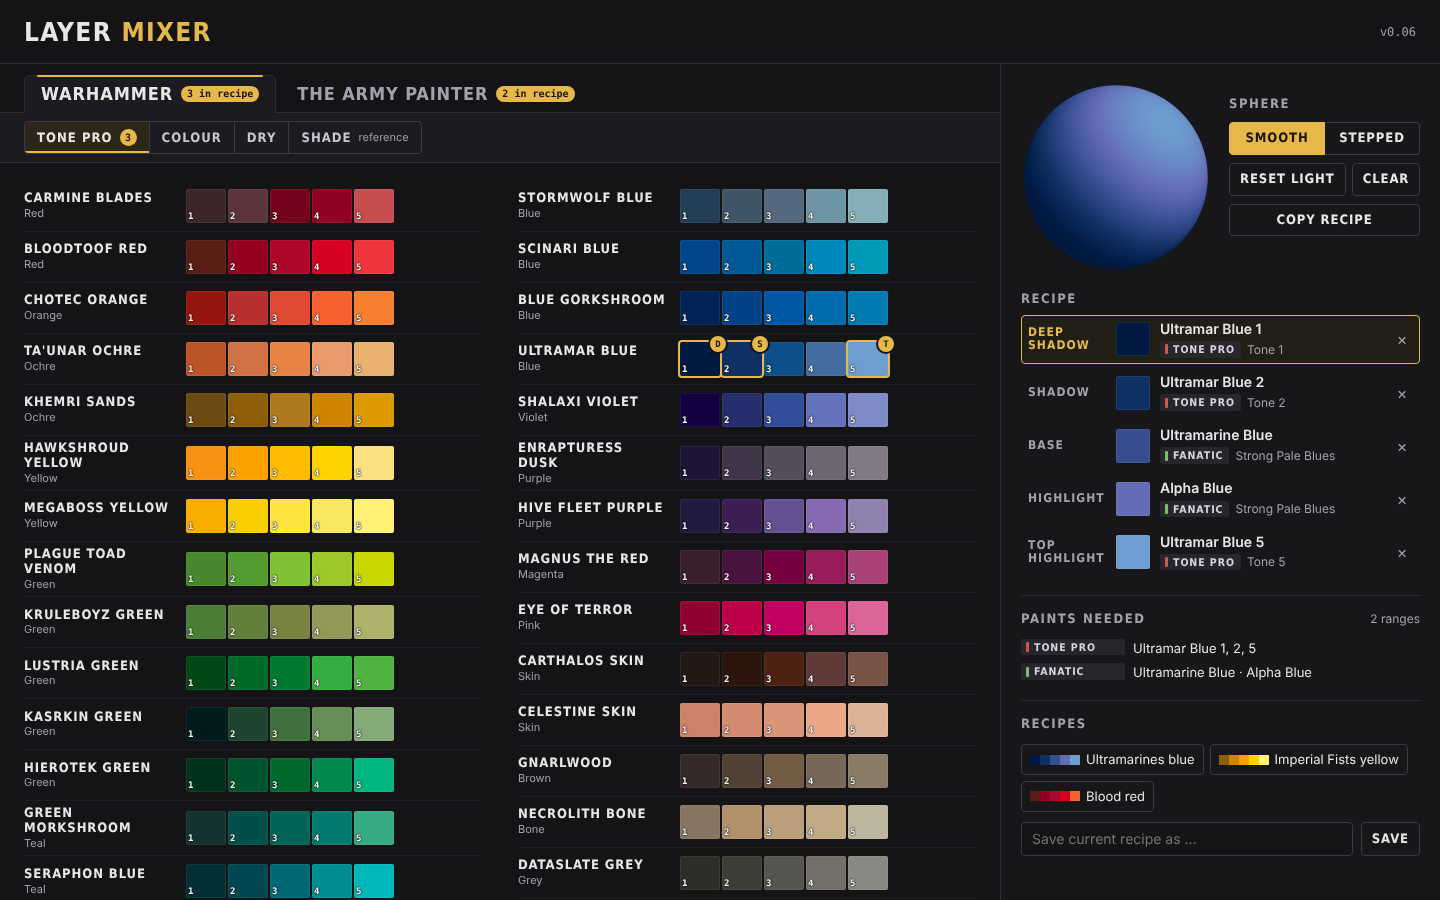
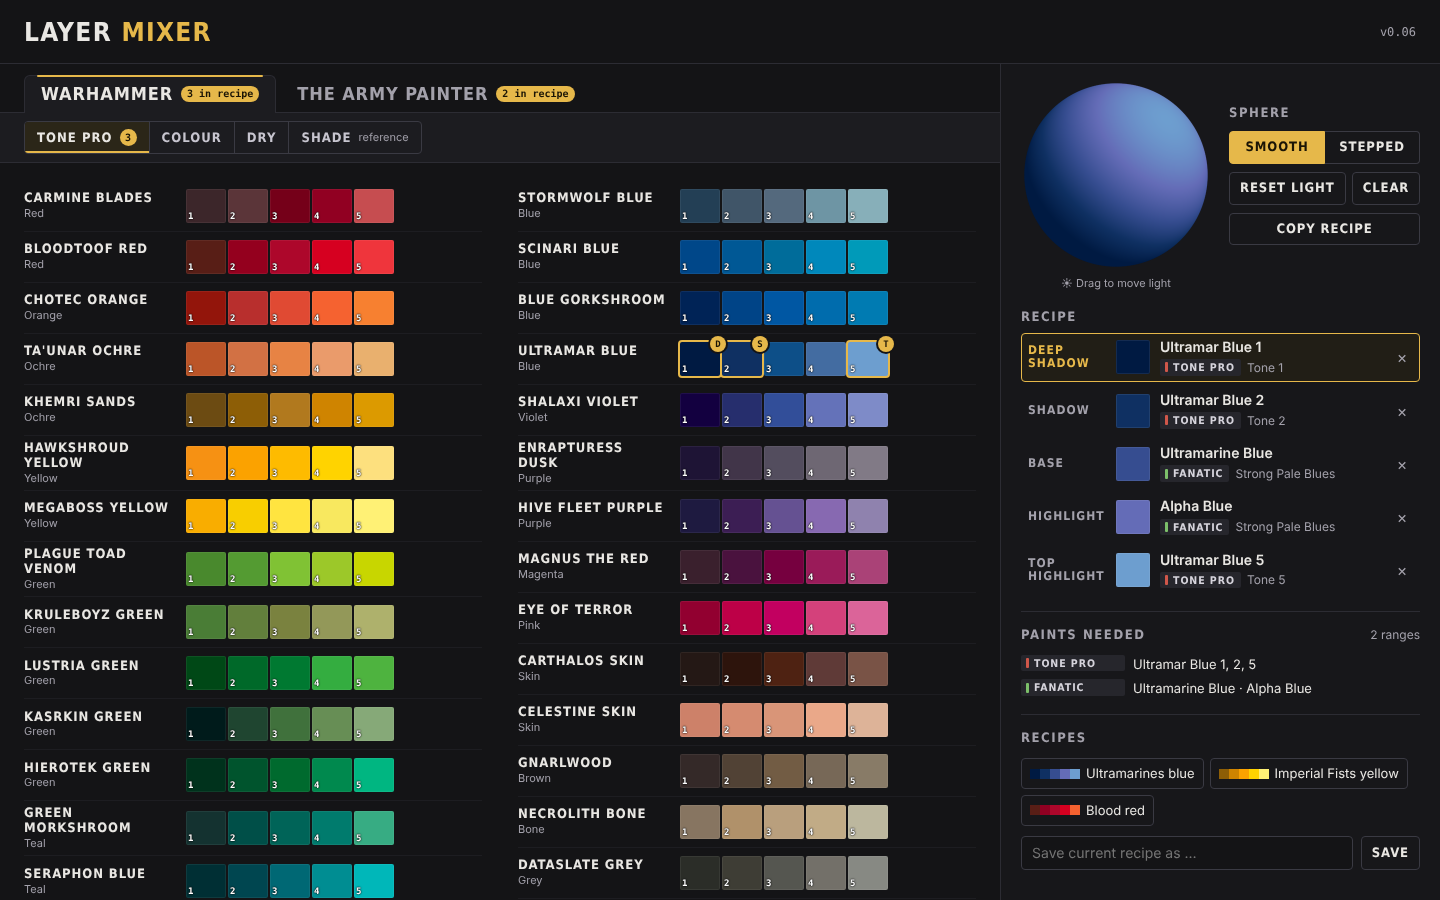
v0.06: drag hint below the sphere
Claude-Session: https://claude.ai/code/session_01JPW2BsCcmNcd3VEob4xsxp

diff --git a/dist/layer-mixer.html b/dist/layer-mixer.html
@@ -117,9 +117,11 @@ h2{font-family:var(--font-display);font-stretch:condensed;font-weight:600;font-s
 .notes .credit{margin-top:10px;color:var(--fg)}
 
 /* ---- Bench: sphere + recipe ---- */
-.bench{border-left:1px solid var(--line);background:var(--bench);padding:18px 20px 28px;display:flex;flex-direction:column;gap:18px}
+.bench{border-left:1px solid var(--line);background:var(--bench);padding:16px 20px 20px;display:flex;flex-direction:column;gap:16px}
 .stage-top{display:flex;gap:18px;align-items:center}
-canvas#sphere{width:190px;height:190px;flex:none;cursor:grab;touch-action:none;border-radius:50%}
+.sphere-wrap{flex:none;width:190px}
+canvas#sphere{width:190px;height:190px;display:block;cursor:grab;touch-action:none;border-radius:50%}
+#drag-hint{display:block;text-align:center;color:var(--muted);font-size:11px;margin-top:6px}
 canvas#sphere.dragging{cursor:grabbing}
 .stage-ctl{display:flex;flex-direction:column;gap:8px;min-width:0;flex:1}
 .btn{appearance:none;cursor:pointer;background:transparent;color:var(--fg);border:1px solid var(--line-strong);border-radius:var(--r-md);padding:6px 10px;
@@ -187,7 +189,10 @@ canvas#sphere.dragging{cursor:grabbing}
   </section>
   <aside class="pane bench" id="bench" aria-label="Sphere and recipe">
     <div class="stage-top">
-      <canvas id="sphere" width="380" height="380" tabindex="0" role="img" title="Drag to move the light. Double-click to reset." aria-label="Sphere showing the layered recipe. Drag or use the arrow keys to move the light."></canvas>
+      <div class="sphere-wrap">
+        <canvas id="sphere" width="380" height="380" tabindex="0" role="img" title="Drag to move the light. Double-click to reset." aria-label="Sphere showing the layered recipe. Drag or use the arrow keys to move the light."></canvas>
+        <span id="drag-hint" aria-hidden="true">☀ Drag to move light</span>
+      </div>
       <div class="stage-ctl">
         <h2>Sphere</h2>
         <div class="seg" role="group" aria-label="Blending">

diff --git a/src/layer-mixer.html b/src/layer-mixer.html
@@ -117,9 +117,11 @@ h2{font-family:var(--font-display);font-stretch:condensed;font-weight:600;font-s
 .notes .credit{margin-top:10px;color:var(--fg)}
 
 /* ---- Bench: sphere + recipe ---- */
-.bench{border-left:1px solid var(--line);background:var(--bench);padding:18px 20px 28px;display:flex;flex-direction:column;gap:18px}
+.bench{border-left:1px solid var(--line);background:var(--bench);padding:16px 20px 20px;display:flex;flex-direction:column;gap:16px}
 .stage-top{display:flex;gap:18px;align-items:center}
-canvas#sphere{width:190px;height:190px;flex:none;cursor:grab;touch-action:none;border-radius:50%}
+.sphere-wrap{flex:none;width:190px}
+canvas#sphere{width:190px;height:190px;display:block;cursor:grab;touch-action:none;border-radius:50%}
+#drag-hint{display:block;text-align:center;color:var(--muted);font-size:11px;margin-top:6px}
 canvas#sphere.dragging{cursor:grabbing}
 .stage-ctl{display:flex;flex-direction:column;gap:8px;min-width:0;flex:1}
 .btn{appearance:none;cursor:pointer;background:transparent;color:var(--fg);border:1px solid var(--line-strong);border-radius:var(--r-md);padding:6px 10px;
@@ -187,7 +189,10 @@ canvas#sphere.dragging{cursor:grabbing}
   </section>
   <aside class="pane bench" id="bench" aria-label="Sphere and recipe">
     <div class="stage-top">
-      <canvas id="sphere" width="380" height="380" tabindex="0" role="img" title="Drag to move the light. Double-click to reset." aria-label="Sphere showing the layered recipe. Drag or use the arrow keys to move the light."></canvas>
+      <div class="sphere-wrap">
+        <canvas id="sphere" width="380" height="380" tabindex="0" role="img" title="Drag to move the light. Double-click to reset." aria-label="Sphere showing the layered recipe. Drag or use the arrow keys to move the light."></canvas>
+        <span id="drag-hint" aria-hidden="true">☀ Drag to move light</span>
+      </div>
       <div class="stage-ctl">
         <h2>Sphere</h2>
         <div class="seg" role="group" aria-label="Blending">

diff --git a/tests/run-tests.js b/tests/run-tests.js
@@ -160,6 +160,7 @@ const SRC = fs.readFileSync(path.resolve(__dirname, '../src/layer-mixer.html'), 
   });
   const bright = c => c[0] + c[1] + c[2];
   await t('Heading is "Sphere", no Reverse button', async () => {
+    assert.equal((await p.textContent('#drag-hint')).trim(), '☀ Drag to move light');
     assert.equal(await p.textContent('.stage-ctl h2'), 'Sphere');
     assert.equal(await p.locator('#btn-reverse').count(), 0);
     assert.equal(await p.locator('#btn-light').count(), 1);
@@ -315,6 +316,12 @@ const SRC = fs.readFileSync(path.resolve(__dirname, '../src/layer-mixer.html'), 
   await t('Security: no innerHTML/eval/external URLs in source', async () => {
     assert(!/innerHTML|outerHTML|insertAdjacentHTML|eval\(|new Function|document\.write/.test(SRC));
     assert(!/https?:\/\//.test(fs.readFileSync(path.join(DIST, BUILT[0]), 'utf8')));
+  });
+  await t('Right column fits 1440×900 without scrolling (recipe loaded)', async () => {
+    await p.setViewportSize({ width: 1440, height: 900 }); await p.reload();
+    await p.click('#presets .chip:has-text("Ultramarines blue")');
+    const o = await p.evaluate(() => { const b = document.querySelector('#bench'); return b.scrollHeight - b.clientHeight; });
+    assert(o <= 0, 'overflow ' + o);
   });
   await t('No network requests', async () => { assert.equal(ext.length, 0, ext.join(' ')); });
 
